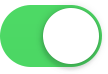
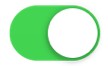
aggiunto switch, iniziato slider

Changed region(s): [[0.0, 0.0606, 0.9444, 0.9394]]

diff --git a/app/scripts/views/ui_control_view.js b/app/scripts/views/ui_control_view.js
@@ -52,6 +52,14 @@ App.UiControlView = Ember.View.extend(App.UiMoveable, {
         return App.UiMapView;
         break;
 
+      case ('App.Switch'):
+        return App.UiSwitchView;
+        break;
+
+      case ('App.Slider'):
+        return App.UiSliderView;
+        break;
+
       case ('App.PhotocameraController'):
         return App.UiPhotocameraControllerView;
         break;
@@ -73,19 +81,19 @@ App.UiControlView = Ember.View.extend(App.UiMoveable, {
 
   alignParentTop: function() {
     return this.get('context.alignParentTop');
-  }.property('context.alignParentTop'), 
+  }.property('context.alignParentTop'),
 
   alignParentBottom: function() {
     return this.get('context.alignParentBottom');
-  }.property('context.alignParentBottom'), 
+  }.property('context.alignParentBottom'),
 
   alignParentStart: function() {
     return this.get('context.alignParentStart');
-  }.property('context.alignParentStart'), 
+  }.property('context.alignParentStart'),
 
   alignParentEnd: function() {
     return this.get('context.alignParentEnd');
-  }.property('context.alignParentEnd'), 
+  }.property('context.alignParentEnd'),
 
   top: function() {
     return this.computeVerticalAxis(this.get('context.top'));
@@ -148,7 +156,7 @@ App.UiControlView = Ember.View.extend(App.UiMoveable, {
   style: function() {
     var result = '';
 
-    result += 'top: ' + this.get('top') + 'px; ';    
+    result += 'top: ' + this.get('top') + 'px; ';
     result += 'left: ' + this.get('start') + 'px; ';
     result += 'height: ' + this.get('computedHeight') + 'px;';
     result += 'width: ' + this.get('computedWidth') + 'px;';

diff --git a/app/scripts/router.js b/app/scripts/router.js
@@ -1,5 +1,5 @@
 App.Router.map(function () {
-  
+
   this.resource('editor', function() {
   	this.resource('viewControllers', function() {
       this.resource('viewController', {path: '/viewController/:viewController_id'}, function() {
@@ -27,6 +27,10 @@ App.Router.map(function () {
         this.resource('controlListViewCell', {path: '/listViewCell/:listViewCell_id'}, function () {
         });
         this.resource('controlMap', {path: '/map/:map_id'}, function () {
+        });
+        this.resource('controlSwitch', {path: '/switch/:switch_id'}, function () {
+        });
+        this.resource('controlSlider', {path: '/slider/:slider_id'}, function () {
         });
         this.resource('controlPhotocameraController', {path: '/photocameraController/:photocameraController_id'}, function () {
         });

diff --git a/app/scripts/routes/editor_route.js b/app/scripts/routes/editor_route.js
@@ -1,6 +1,6 @@
 App.EditorRoute = Ember.Route.extend({
     model: function () {
-      
+
         return Ember.RSVP.hash({
           application: this.store.find('application').then(function(dataArray) {
             return dataArray.objectAt(0);
@@ -27,6 +27,8 @@ App.EditorRoute = Ember.Route.extend({
           listViews:  this.store.find('listView'),
           maps:  this.store.find('map'),
           photocameraControllers:  this.store.find('photocameraController'),
+          sliders:  this.store.find('slider'),
+          switches:  this.store.find('switch'),
           videoViews:  this.store.find('videoView'),
           videocameraControllers:  this.store.find('videocameraController'),
           webViews:  this.store.find('webView'),

diff --git a/app/styles/style.scss b/app/styles/style.scss
@@ -705,6 +705,31 @@ html, body {
   background-repeat: round;
 }
 
+
+
+.control-switch .control-content {
+  height: 100%;
+  display: flex;
+}
+.android .control-switch .switch-image {
+  width: 51px;
+  height:31px;
+  background: url('/images/ui_controls/android/switch.png');
+  background-size: 100%;
+  margin : auto;
+}
+.ios .control-switch .switch-image {
+  width: 51px;
+  height:31px;
+  background: url('/images/ui_controls/ios/switch.png');
+  background-size: 100%;
+  margin : auto;
+}
+
+
+
+
+
 /* Drag & Drop */
 .dragging-over {
   box-shadow: 0 0 5px 5px #007aff;

diff --git a/app/scripts/routes/application_route.js b/app/scripts/routes/application_route.js
@@ -137,6 +137,16 @@ App.ApplicationRoute = Ember.Route.extend({
         type: 'editText'
       }).save();
       this.store.createRecord('uiControlTemplate', {
+        label: 'Switch',
+        nameImg: 'switch.png',
+        type: 'switch'
+      }).save();
+      this.store.createRecord('uiControlTemplate', {
+        label: 'Slider',
+        nameImg: 'slider.png',
+        type: 'slider'
+      }).save();
+      this.store.createRecord('uiControlTemplate', {
         label: 'Web View',
         nameImg: 'webview.png',
         type: 'webView'

diff --git a/app/scripts/models/switch.js b/app/scripts/models/switch.js
@@ -1,0 +1,15 @@
+App.Switch = App.UiControl.extend({
+  name:       DS.attr('string', {defaultValue: 'Switch'}),
+
+  width:      DS.attr('number', {defaultValue: 88}),
+  height:     DS.attr('number', {defaultValue: 36}),
+
+  xmlName:    'switch',
+
+  toXml: function(xmlDoc) {
+    var _switch = xmlDoc.createElement(this.get('xmlName'));
+    this.decorateXml(_switch);
+    return _switch;
+  }
+
+});

diff --git a/app/scripts/models/slider.js b/app/scripts/models/slider.js
@@ -1,0 +1,15 @@
+App.Slider = App.UiControl.extend({
+  name:       DS.attr('string', {defaultValue: 'Slider'}),
+
+  width:      DS.attr('number', {defaultValue: 88}),
+  height:     DS.attr('number', {defaultValue: 36}),
+
+  xmlName:    'slider',
+
+  toXml: function(xmlDoc) {
+    var slider = xmlDoc.createElement(this.get('xmlName'));
+    this.decorateXml(slider);
+    return slider;
+  }
+
+});

diff --git a/app/scripts/views/ui_switch_view.js b/app/scripts/views/ui_switch_view.js
@@ -1,0 +1,7 @@
+App.UiSwitchView = Ember.View.extend({
+  tagName: 'div',
+  classNames: ['control-switch', 'expanded'],
+  classNameBindings: ['controller.controllers.editor.device.platform'],
+  templateName: 'views/ui_switch_view'
+
+});

diff --git a/app/scripts/controllers/control_slider_index_controller.js b/app/scripts/controllers/control_slider_index_controller.js
@@ -1,0 +1,3 @@
+App.ControlSliderIndexController = App.UiControlController.extend({
+
+});

diff --git a/app/scripts/controllers/control_switch_index_controller.js b/app/scripts/controllers/control_switch_index_controller.js
@@ -1,0 +1,3 @@
+App.ControlSwitchIndexController = App.UiControlController.extend({
+
+});
